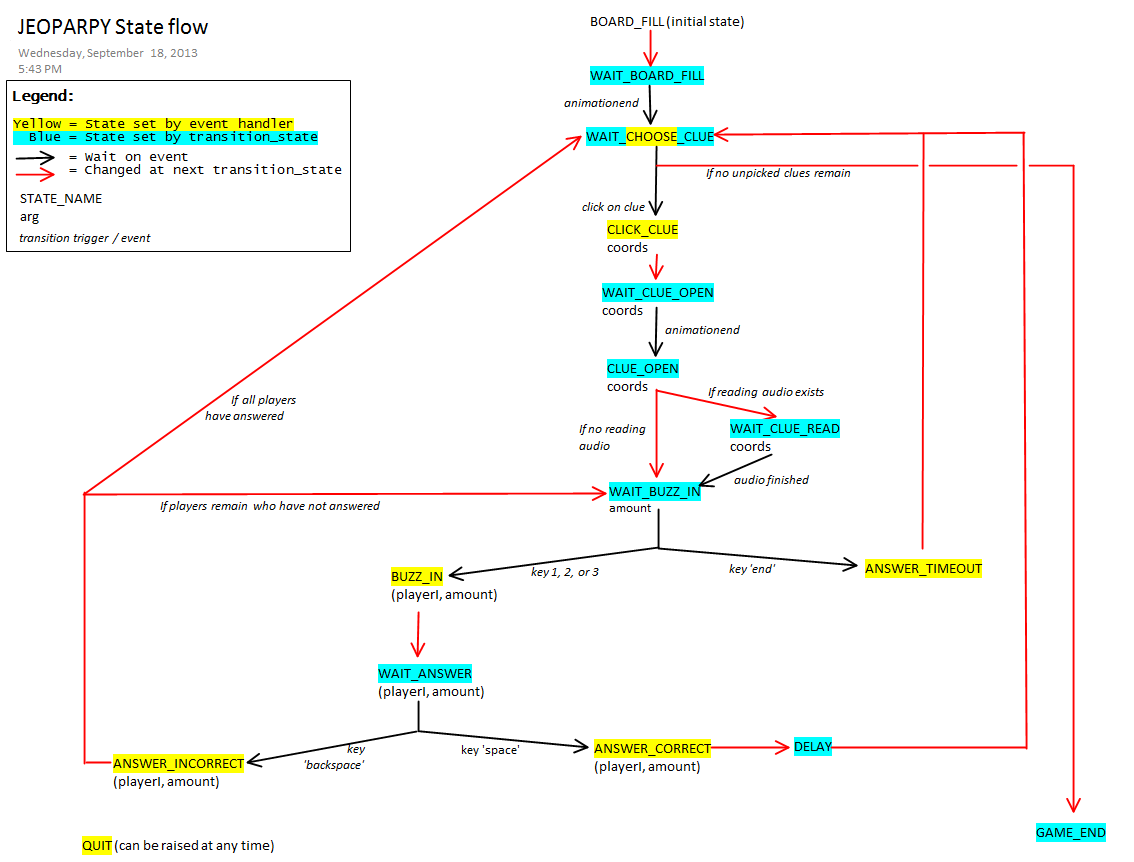
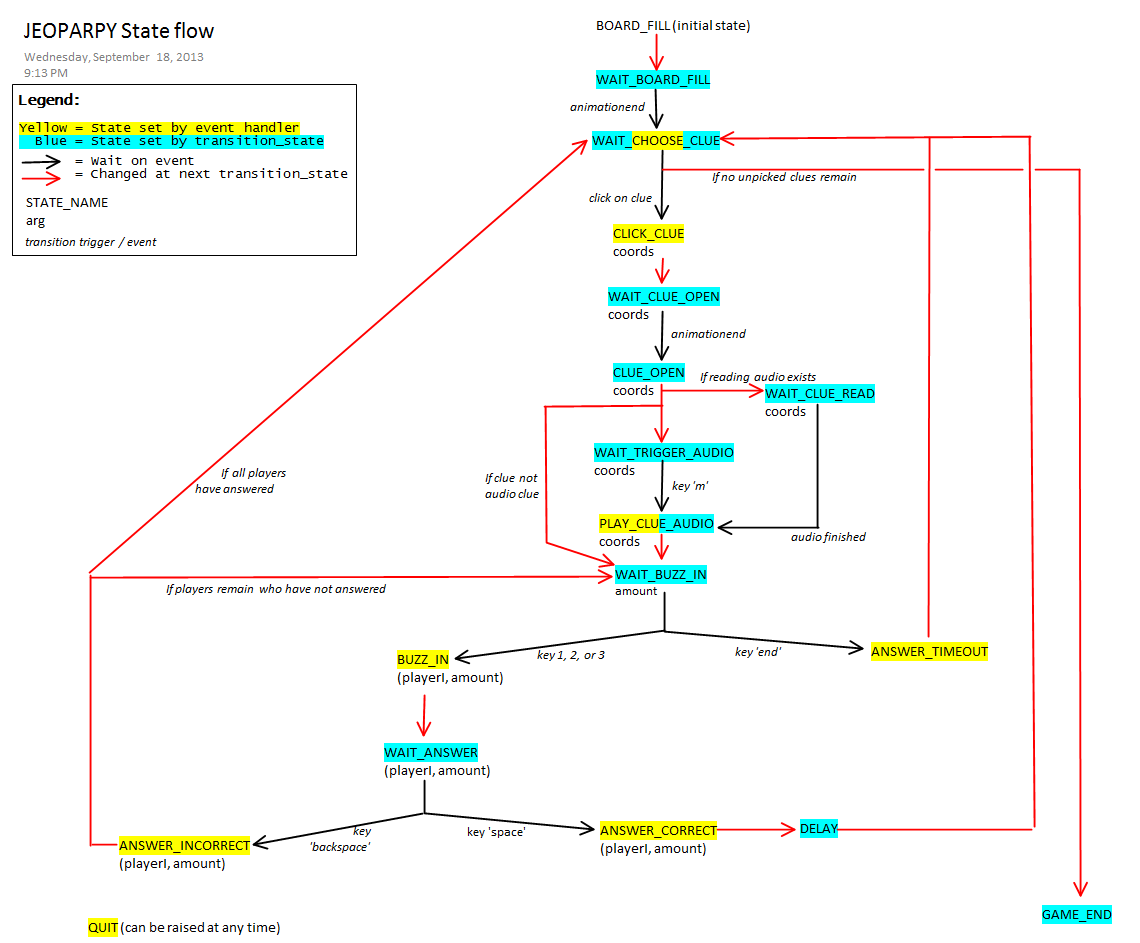
Upd: New audio clue states
Also updated state_flow to reflect these new states.

diff --git a/src/jeoparpy/game/gamestate.py b/src/jeoparpy/game/gamestate.py
@@ -121,6 +121,8 @@ class JeopGameState(GameState):
         self.WAIT_CLUE_OPEN = self._addstate()
         self.CLUE_OPEN = self._addstate()
         self.WAIT_CLUE_READ = self._addstate()
+        self.WAIT_TRIGGER_AUDIO = self._addstate()
+        self.PLAY_CLUE_AUDIO = self._addstate()
         self.WAIT_BUZZ_IN = self._addstate()
         self.BUZZ_IN = self._addstate()
         self.WAIT_ANSWER = self._addstate()
